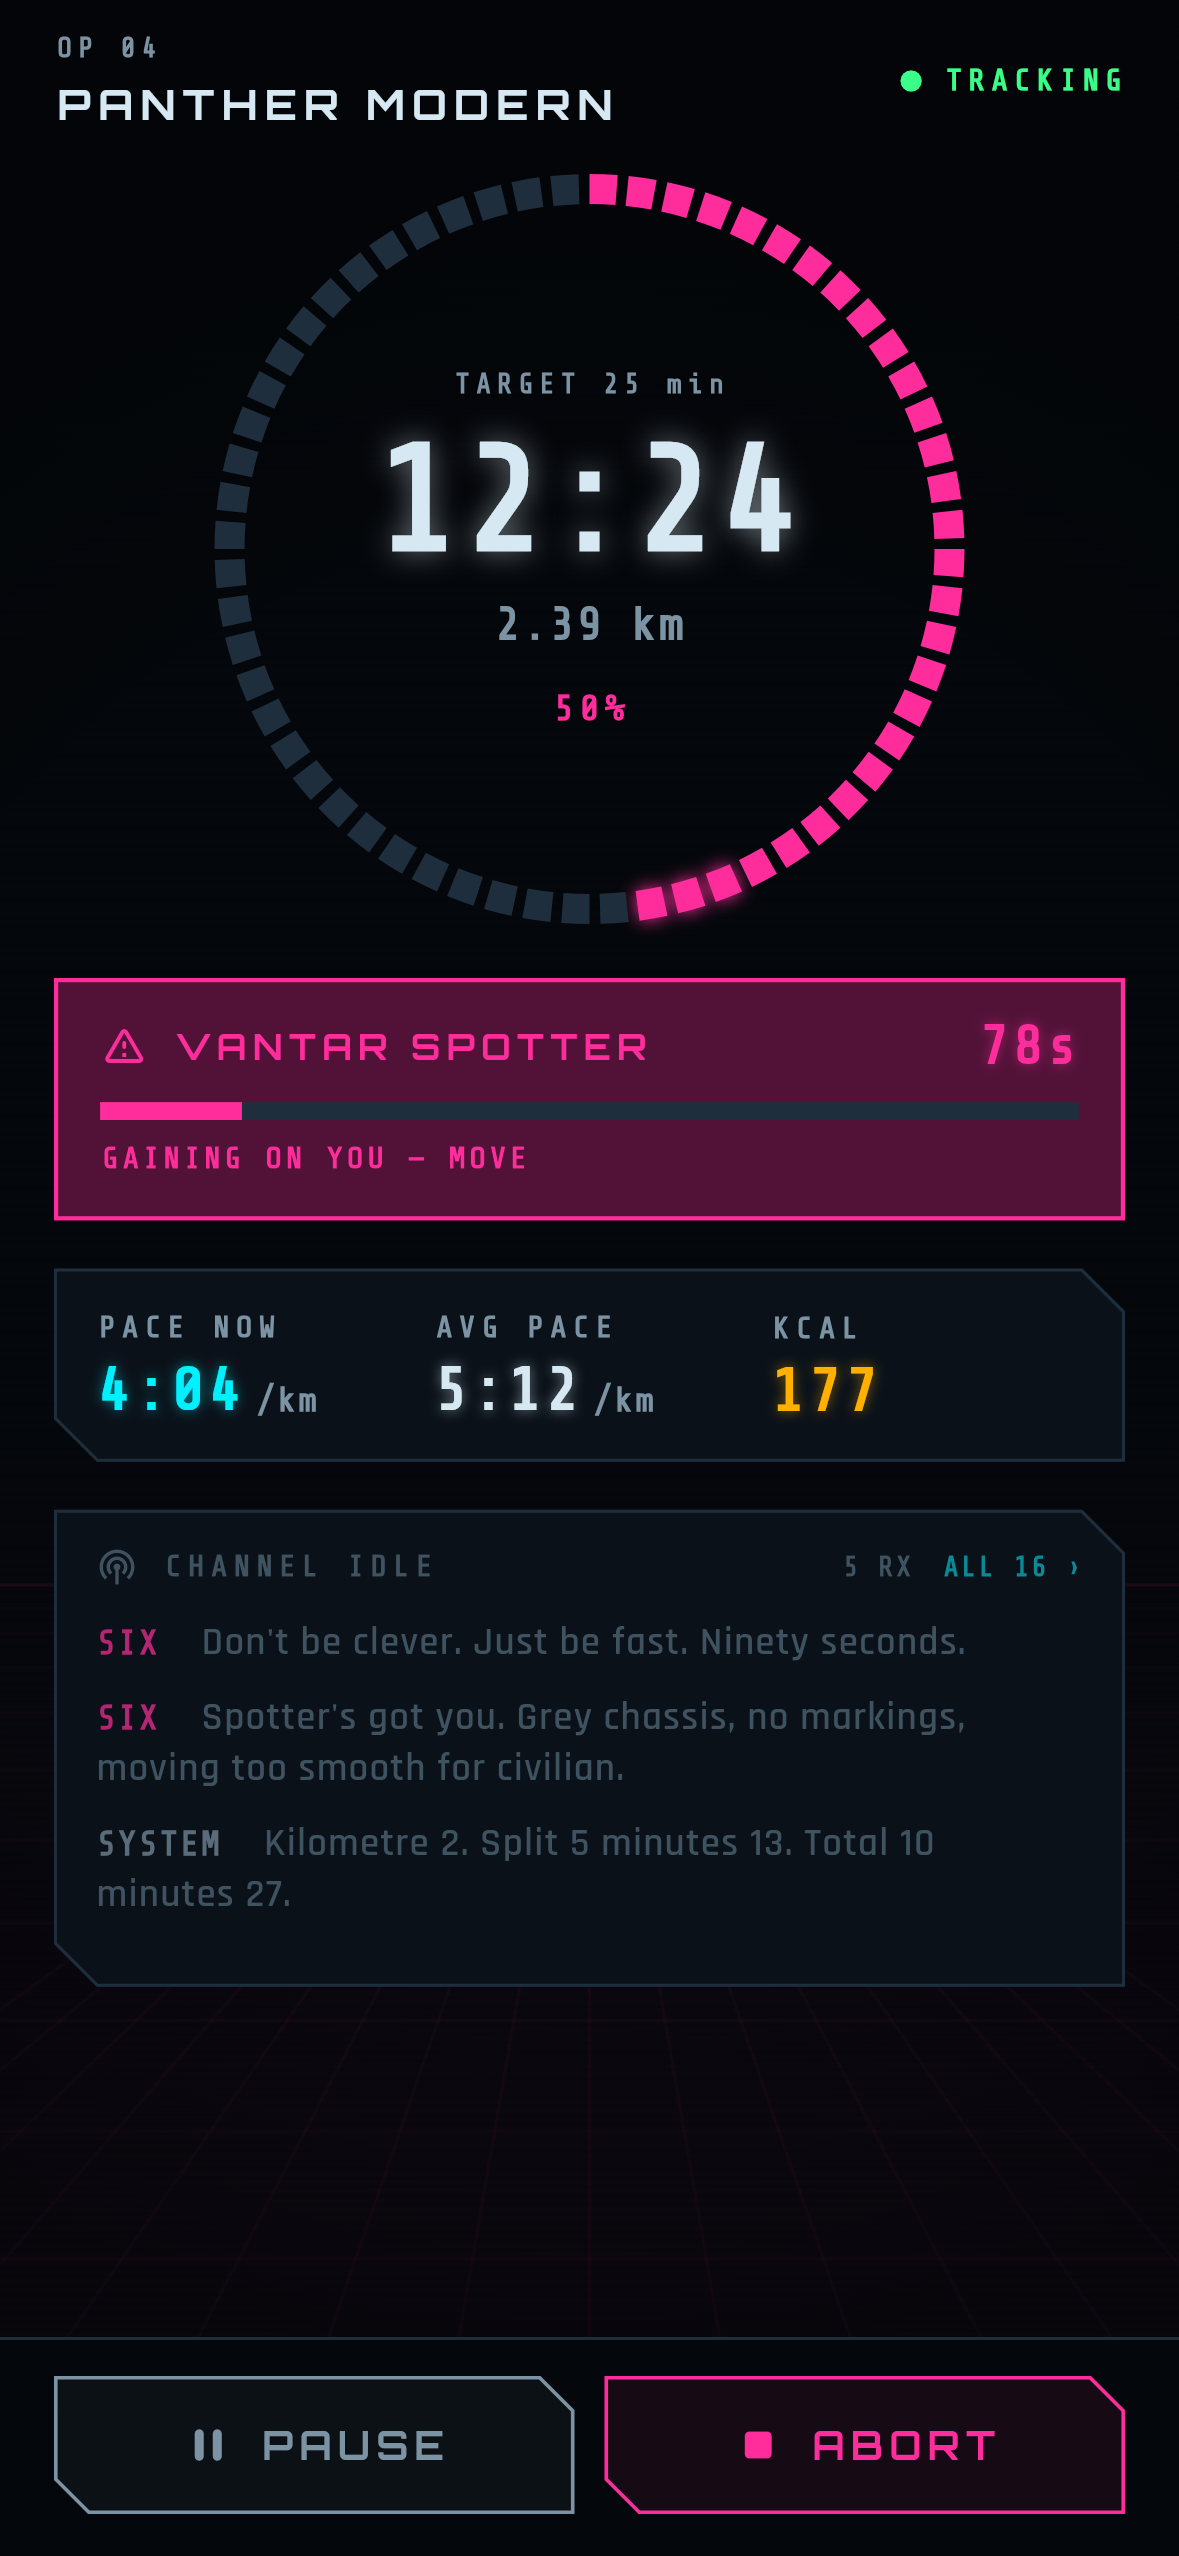
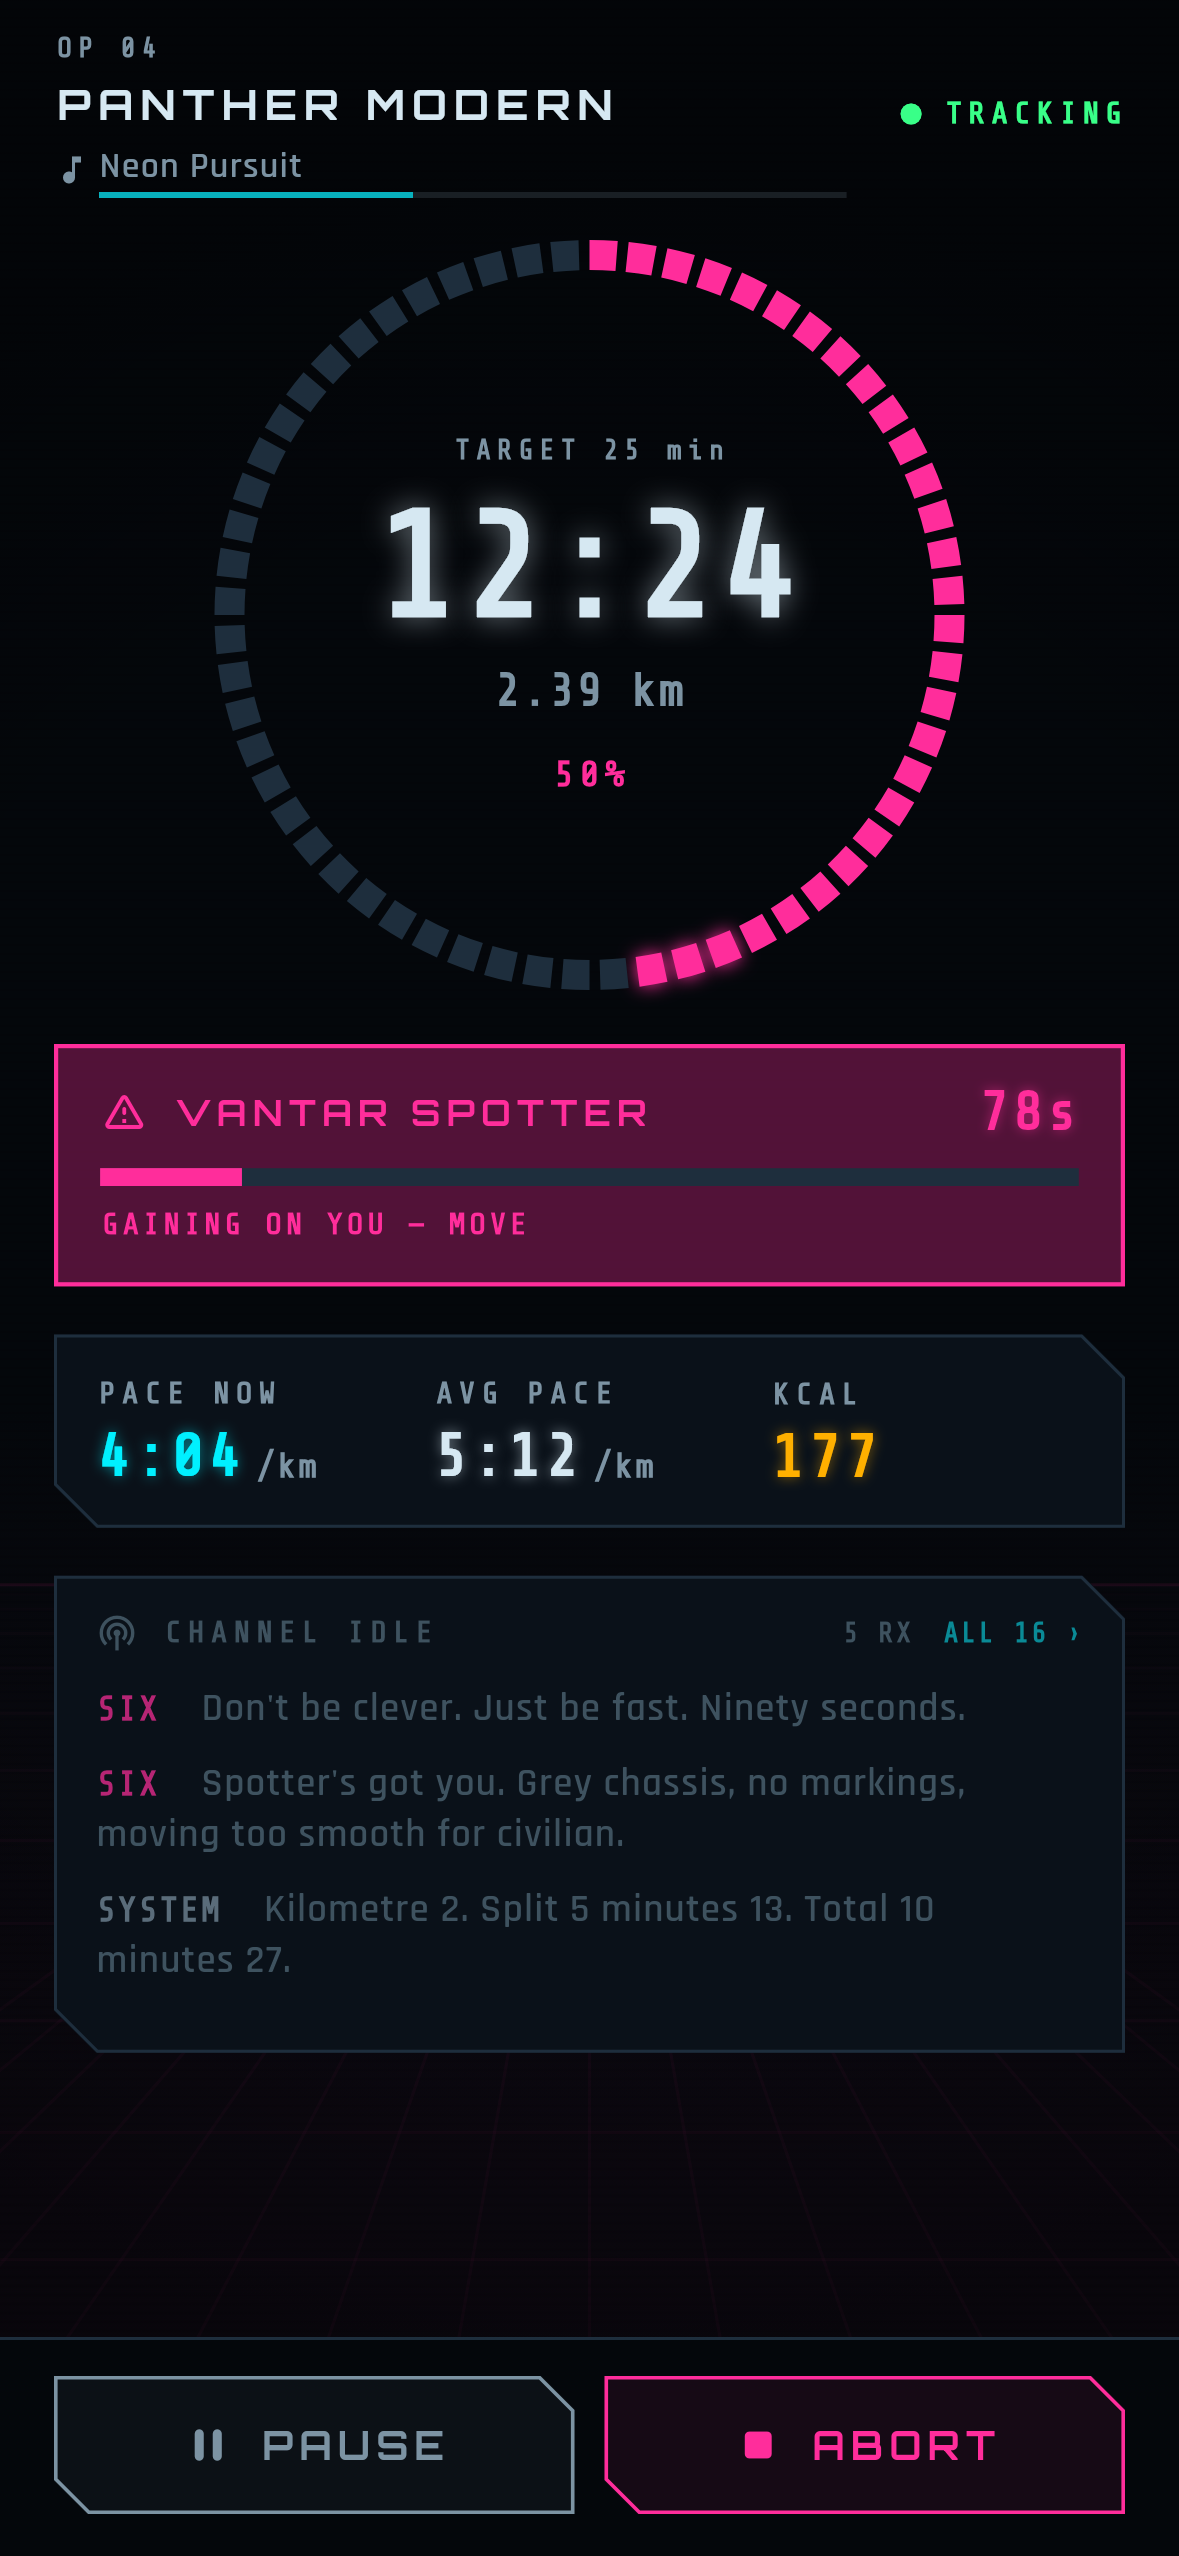
Update the store listing and screenshots for 0.9.0

diff --git a/tool/screenshots/capture_test.dart b/tool/screenshots/capture_test.dart
@@ -27,6 +27,7 @@ import 'dart:ui' as ui;
 import 'package:flutter/material.dart';
 import 'package:flutter/rendering.dart';
 import 'package:flutter_test/flutter_test.dart';
+import 'package:sprawl_run/audio/song.dart';
 import 'package:sprawl_run/l10n/l10n.dart';
 import 'package:sprawl_run/widgets/glitch_text.dart';
 import 'package:sprawl_run/app.dart';
@@ -38,10 +39,13 @@ import 'package:sprawl_run/screens/history_screen.dart';
 import 'package:sprawl_run/screens/mission_brief_screen.dart';
 import 'package:sprawl_run/screens/missions_screen.dart';
 import 'package:sprawl_run/screens/run_detail_screen.dart';
+import 'package:sprawl_run/models/profile.dart';
 import 'package:sprawl_run/screens/run_screen.dart';
+import 'package:sprawl_run/screens/song_library_screen.dart';
 import 'package:sprawl_run/screens/run_summary_screen.dart';
 import 'package:sprawl_run/screens/theme_editor_screen.dart';
 import 'package:sprawl_run/theme/theme_draft.dart';
+import 'package:sprawl_run/services/music_player.dart';
 import 'package:sprawl_run/services/run_engine.dart';
 import 'package:sprawl_run/state/app_state.dart';
 import 'package:sprawl_run/widgets/unlock_reveal.dart';
@@ -121,6 +125,7 @@ const Map<String, int> _storeOrder = {
   'achievements': 7,
   'codex': 8,
   'theme-editor': 9,
+  'song-library': 10,
 };
 
 void main() {
@@ -157,6 +162,13 @@ void _shots() {
     await _shoot(tester, 'theme-editor');
   });
 
+  testWidgets('song library', (tester) async {
+    final state = await seedShowcase(tester, language: _storyLanguage);
+    await tester.runAsync(() => state.updateProfile(state.profile.copyWith(music: Profile.bestMatchMusic)));
+    await _pump(tester, const SongLibraryScreen(), state);
+    await _shoot(tester, 'song-library');
+  });
+
   testWidgets('mission brief', (tester) async {
     final state = await seedShowcase(tester, language: _storyLanguage);
     final mission = state.currentMission!.mission;
@@ -182,11 +194,8 @@ void _shots() {
 
     var now = DateTime(2026, 7, 27, 21, 14);
     final location = FakeLocation();
-    final engine = RunEngine(
-      narrator: FakeNarrator(lineDuration: const Duration(seconds: 6)),
-      location: location,
-      clock: () => now,
-    );
+    final narrator = FakeNarrator(lineDuration: const Duration(seconds: 6));
+    final engine = RunEngine(narrator: narrator, location: location, clock: () => now);
 
     await _pump(
       tester,
@@ -194,6 +203,7 @@ void _shots() {
       state,
       engine: engine,
     );
+    narrator.hearSong('neon_pursuit');
 
     // Run at a steady 3.2 m/s until a pursuit opens — that is the shot worth
     // having. This mission's chase sits at 48% of the target, so it takes
@@ -209,6 +219,8 @@ void _shots() {
       location.step(now, 4.1);
       await tester.pump(const Duration(seconds: 1));
     }
+    narrator.hearProgress(const SongProgress(0.42, level: MusicLevel.normal));
+    await tester.pump(const Duration(milliseconds: 100));
     await _shoot(tester, 'run-hud');
 
     // The fake narrator holds a timer for the length of every line it speaks,

diff --git a/README.md b/README.md
@@ -385,7 +385,7 @@ Android SDK notes, learned the hard way:
 
 ```bash
 flutter analyze                # clean
-flutter test                   # 877 tests
+flutter test                   # 924 tests
 ```
 
 GitHub Actions runs both on every push and pull request (`.github/workflows/tests.yml`),
